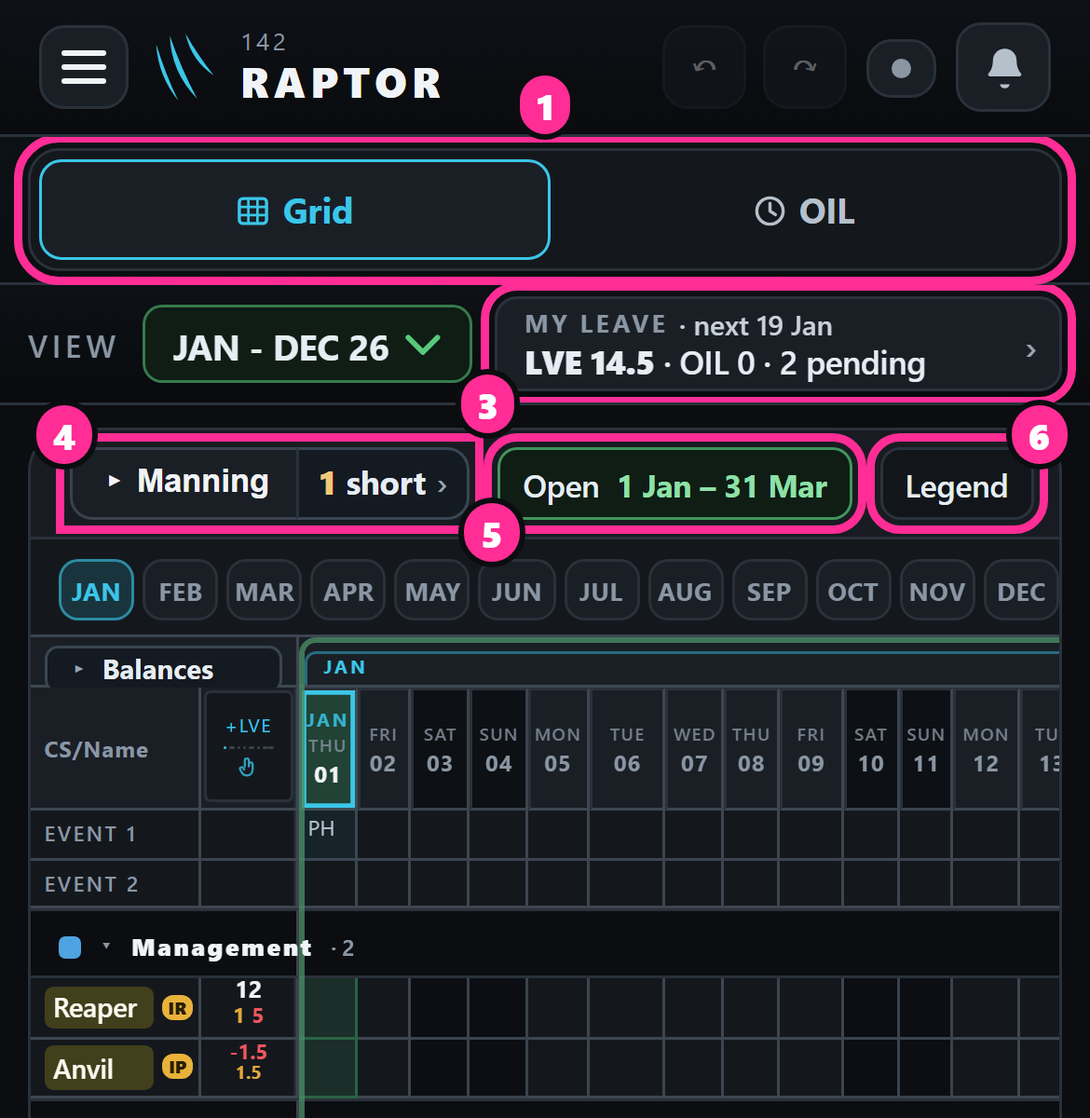
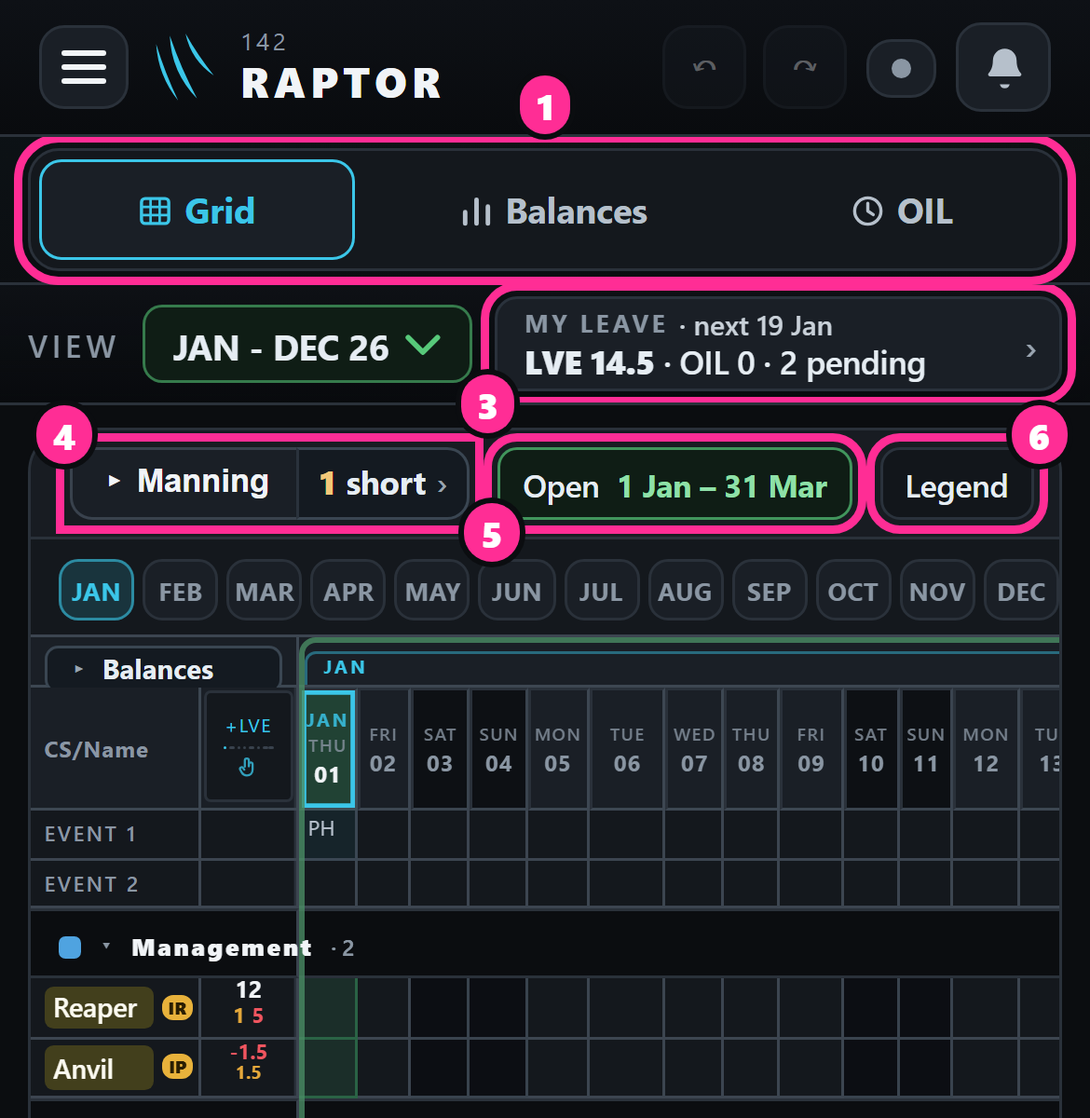
The main page redrawn with a member's tabs Grid · Balances · OIL (D1242); N5 put to him: two things called Balances, recommended the grid's fold goes; page version 46; skill note 675

Changed region(s): [[0.1231, 0.1233, 0.3385, 0.2467], [0.6769, 0.1542, 0.8923, 0.2158], [0.4308, 0.1542, 0.6154, 0.2158]]

diff --git a/raptor-port/docs/mock/lw-overhaul/full-page.html b/raptor-port/docs/mock/lw-overhaul/full-page.html
@@ -66,6 +66,7 @@ a{color:var(--accent)}
     <section class="box" id="open-list">
       <h2>Still open: one line each</h2>
       <ul class="plain">
+        <li><b>N5</b> · two things called "Balances" on the main page: the grid's Balances fold goes, now that the tab holds the same columns <span class="rec-pill">recommended</span> · <a href="#f-twobal">picture</a></li>
         <li><b>N1</b> · the navigation as redrawn below: tabs, one row fewer, Manning back at the left <span class="rec-pill">recommended</span> · <a href="#f-nav">pictures</a></li>
         <li><b>N2</b> · "Under 1 day" folded into the Manning button as "1 short ›" <span class="rec-pill">recommended</span> · <a href="#f-under">what it is</a></li>
         <li><b>N3</b> · the "+" for a new period moves into the period list, its last line <span class="rec-pill">recommended</span> · <a href="#f-nav">picture 7</a></li>
@@ -73,7 +74,18 @@ a{color:var(--accent)}
         <li><b>B2</b> lock switch on the balances page · <b>B3</b> OIL read only there · <b>B4</b> the Days taken view · <b>B5</b> take "No grade" out, all <span class="rec-pill">recommended</span> · <a href="#w-bal">pictures</a> · <a href="#f-nograde">B5 in words</a></li>
         <li><b>P</b> · approve the build plan · <a href="#w-plan">the plan</a></li>
       </ul>
-      <div class="answer">Reply with, e.g., <code>N1–N3 recommended · 3b 3c recommended · B all recommended · P approved</code>, or <code>all recommended</code>.</div>
+      <div class="answer">Reply with, e.g., <code>N1–N3, N5 recommended · 3b 3c recommended · B all recommended · P approved</code>, or <code>all recommended</code>.</div>
+    </section>
+
+    <section class="box q" id="f-twobal">
+      <h2><span class="qn">N5</span>Two things called "Balances" on the main page <span class="k n">new, from your N4</span></h2>
+      <p><b>Yes, the main page is updated:</b> a member's tabs are now Grid · Balances · OIL (picture, and N1 below). <b>Redrawing it showed one clash:</b> the page now has two things called "Balances": <b>A</b> the new tab (the whole squadron, laid out for a phone) and <b>B</b> the grid's Balances fold, which opens every person's balance columns beside the grid. They show the same figures, under one name, two ways in.</p>
+      <p><b>Recommended: the grid's Balances fold goes.</b> One button fewer (your point about too many buttons), and no two places with one name. The grid keeps each person's LVE figure beside his name, as now, so the grid still shows who has leave left while you bid or decide. Every other figure is one tap away on the tab. If you say yes, it changes D1185, which named the fold "Balances" and made it a clear button.</p>
+      <ul class="opts">
+        <li class="rec"><b>The fold goes; each name keeps its LVE figure</b><span class="rec-pill">recommended</span></li>
+        <li><b>Keep both</b>: the fold for a glance beside the grid, the tab for the full page.</li>
+      </ul>
+      <div class="shots"><figure><img src="full/r19-nav-member-twobal.png" alt="A member's phone: A the Balances tab, B the grid's Balances fold"><figcaption><span class="k n">A</span> the Balances tab · <span class="k n">B</span> the grid's Balances fold</figcaption></figure></div>
     </section>
 
     <section class="box q" id="f-membal">
@@ -90,7 +102,7 @@ a{color:var(--accent)}
         <li><b>Fewer buttons:</b> 11 before the grid, not 13. "Under 1 day" joins the Manning button (N2, below) and "+" for a new period joins the period list (N3, picture 7). Rearrange moves into ⚙, beside the groups it rearranges; OIL is a tab; the zoom buttons are already gone.</li>
       </ul>
       <div class="tablewrap"><table class="swap"><tr><th>The numbers on the pictures</th><th>What it is</th></tr>
-        <tr><td>1 · the tabs</td><td>Grid · Approvals 15 · Balances · OIL, drawn with the Inputs page's own tab row, so both pages look alike. A member sees Grid · OIL.</td></tr>
+        <tr><td>1 · the tabs</td><td>Grid · Approvals 15 · Balances · OIL, drawn with the Inputs page's own tab row, so both pages look alike. A member sees Grid · Balances · OIL (your answer to N4).</td></tr>
         <tr><td>2 · ⚙</td><td>Settings, at the first row's right end on a phone and a desktop alike. An admin's only.</td></tr>
         <tr><td>3 · My leave</td><td>On a phone it shares the View line, as a member's already does, so the admin's third line goes. On a desktop it stands in the first row.</td></tr>
         <tr><td>4 · Manning · 1 short</td><td>One button in two halves: the left folds the Manning rows, as today; the right counts the short days and jumps to the next one.</td></tr>
@@ -98,7 +110,7 @@ a{color:var(--accent)}
         <tr><td>6 · Legend</td><td>The bar's right end, on a phone and a desktop alike.</td></tr>
         <tr><td>7 · + New period</td><td>The last line of the period list, in place of the "+" button beside it. An admin's only.</td></tr>
       </table></div>
-      <div class="shots"><figure class="wide"><img src="full/r19-nav-admin-desk.png" alt="Round 19, desktop, admin: tabs, View, My leave and Settings on one row; Manning, the open dates and Legend on the grid's bar"><figcaption><span class="k n">New</span> · desktop: one row, then the grid's bar</figcaption></figure><figure><img src="full/r19-nav-admin-phone.png" alt="Round 19, admin's phone: three rows"><figcaption><span class="k n">New</span> · your phone, admin: three rows</figcaption></figure><figure><img src="full/r19-nav-member-phone.png" alt="Round 19, a member's phone"><figcaption><span class="k n">New</span> · a member's phone</figcaption></figure><figure><img src="full/r19-nav-picker-phone.png" alt="The period list open, + New period its last line"><figcaption><span class="k n">7</span> · the period list, "+ New period" last</figcaption></figure><figure class="wide"><img src="full/r17-nav-today-desk.png" alt="Today, desktop, every button numbered"><figcaption><span class="k t">Today</span> · desktop, to compare</figcaption></figure><figure><img src="full/r17-nav-today-phone.png" alt="Today, phone"><figcaption><span class="k t">Today</span> · phone, to compare</figcaption></figure></div>
+      <div class="shots"><figure class="wide"><img src="full/r19-nav-admin-desk.png" alt="Round 19, desktop, admin: tabs, View, My leave and Settings on one row; Manning, the open dates and Legend on the grid's bar"><figcaption><span class="k n">New</span> · desktop: one row, then the grid's bar</figcaption></figure><figure><img src="full/r19-nav-admin-phone.png" alt="Round 19, admin's phone: three rows"><figcaption><span class="k n">New</span> · your phone, admin: three rows</figcaption></figure><figure><img src="full/r19-nav-member-phone.png" alt="Round 19, a member's phone"><figcaption><span class="k n">New</span> · a member's phone: Grid · Balances · OIL</figcaption></figure><figure><img src="full/r19-nav-picker-phone.png" alt="The period list open, + New period its last line"><figcaption><span class="k n">7</span> · the period list, "+ New period" last</figcaption></figure><figure class="wide"><img src="full/r17-nav-today-desk.png" alt="Today, desktop, every button numbered"><figcaption><span class="k t">Today</span> · desktop, to compare</figcaption></figure><figure><img src="full/r17-nav-today-phone.png" alt="Today, phone"><figcaption><span class="k t">Today</span> · phone, to compare</figcaption></figure></div>
       <p class="note">If you say yes, this changes some earlier rulings: Approvals leaves the first line for a tab (D1196), so a request's dates take you to the Grid tab with a slim "Back to Approvals" bar on a desktop as on a phone (D1231 had Approvals docked beside the grid on a desktop). "+" / "+ New" leaves the first line for the period list, the admin's phone loses its third line and the second line goes (D678, D679). The under-manned chip becomes the right half of Manning (D1213 still decides what it counts). The grid's bar loses ⚙, Rearrange, OIL and zoom (its one-line bar of 5 Sep 26).</p>
       <details><summary class="lede">Round 17's drawing, to compare (A tabs, B one menu)</summary>
         <div class="shots" style="margin-top:10px"><figure class="wide"><img src="full/r17-nav-A-desk.png" alt="Round 17 A, desktop"><figcaption>Round 17 · A, desktop</figcaption></figure><figure><img src="full/r17-nav-A-phone.png" alt="Round 17 A, phone"><figcaption>Round 17 · A, phone</figcaption></figure><figure><img src="full/r17-nav-B-phone.png" alt="Round 17 B, phone"><figcaption>Round 17 · B, one menu</figcaption></figure></div>

diff --git a/HANDOFF.md b/HANDOFF.md
@@ -27,8 +27,8 @@ the later merge keeps both (D78).
 - **Unfinished:** none of the night's selection. Not built (D1207 — none qualified: every merge waits on a question or on his look; the two red-team faults in today's code go with their merges, the year-end bid being latent). Open residue → `[LW-OVERHAUL]` (his answers, his approval of the plan); `[LW-PHONE-PINCH-ZOOM]` gained fix A7a; `[NO-ASTRA-LIST]` carries the night's reads.
 - **Branch:** `claude/leave-war-overhaul`; no pull request (open one for the first build merge, M1, cut from `main` — never this design branch); released at the handoff of 22 Oct 26, about 11:45 (rounds 14–18 chat), then held by the round 19 chat (worktree `leave-war-overhaul-e11c0a`), which serves the mock-up preview on 4197 while it waits for his answers.
 - **Gates:** not run — no source change (documents and mock-up scripts only). `npm run docsize`: one size tripwire over, the Tracker's rulings file (518 bytes — main's, from its round 3; not this branch's to settle); the Leave War rulings tripwire raised to 60000 tonight with its reason. **Running when written:** none (the preview on 4197 stopped; the compaction guard back on); branch released here as the last step.
-- **His morning answers (22 Oct 26), recorded in the Leave War rulings:** D1208 no admin notification of new requests (P5 struck) · D1209 Q4 no member-typed OIL · D1210 a request carries remarks · D1211 Q6 no member bid before today · D1212 "Date" / "Duration" app-wide (lesson 31) · D1213 Q7 Available rows at amber / red count as under-manned · D1214 Q8 bidding open / closed to members' bells · D1215 SANS off unless put on · D1216 Q11 "taken back" line · D1217 "pending" not "waiting", War bal / App bal, days not requests (D1153 narrowed) · D1218 carried-forward leave: one year, then gone ([LEAVE-YEAR] joins) · D1219 N no admin notification option · D1220 Q2 one Lock balances switch · D1221 Q10 "+ SANS" (D882 narrowed). **This branch takes D1230–D1239; next free D1231.** **Also recorded:** D1221 + SANS · D1222 a picture shows only its question's area (lesson 32, How we work) · D1223 the URHO is an admin · D1224 leave uses carried-forward days first · D1225 5A delete own pending bid on a closed day · D1226 the till tick as on the Inputs page · D1227 Q9 (Manning opens with a bubble when a bid turns a row amber or red) · D1228 Q12 no zoom buttons. **Also recorded:** D1229 a leave grade per person, annual leave added by grade every 1 Jan (36 / 33 / 21 / 18 / 14) · D1230 one page for everyone's balances and grades. **Drawn (round 14, 22 Oct 26, this chat — his three asks):** (a) grid dots: none on the grid; Approvals' "New 3" shows what is new; a request's DATES (cyan, "›") are the way to the grid — the grid scrolls there and rings the cell with the just-added ring; desktop Approvals stays docked, phone Approvals drops to a slim bar ("Back ▴") — `full/r14-dots-*`, script `full-r14-dots.mjs`; (b) D1229 + D1230: the balances-and-grades page — grade picker (days on 1 Jan beside it), App bal · incl. carried fwd · pending · War bal, OIL read only, CCL…CL typed, a "Days taken" view, "No grade 2", "Grades…" window, "Lock for members" on the page, opened from Settings' Balances row (recommended) or a top-row button (B1's other way, phone too crowded) — red-teamed against his Gryphon pictures (table on the page) — `full/r14-bal-*`, `full-r14-bal.mjs`; (c) the LVE tile: Impeccable critique run as two independent reads (design review; detector + browser measures — `full-r14-snap.mjs` makes the standalone copy), five findings fixed: the sum one line left to right (App bal [17] − 2½ = 14½ War bal), "incl. [4] carried fwd · till 31 Dec" under App bal, "3 taken" back (D1201), zeros grey and the five typed kinds on row 2, box edges darker (1.85:1 → 3.4:1); locked: figures on their labels, member "Locked by admin", admin "Locked for members" with boxes — `full/r14-lve-*`, `full-r14-lve.mjs`. **His answers since (22 Oct 26, recorded):** D1231 "1 as recommended" (no grid dot; Approvals' New; a request's dates show it on the grid — answers D1199) · D1232 too many buttons, sub-pages hard to find → the navigation study, DRAWN round 17 (`full-r17-nav.mjs`, `full/r17-nav-*`): today 14 buttons in three rows; A (recommended) tabs Grid · Approvals 15 · Balances · OIL as the Inputs page has, the grid's controls one row, Rearrange into Settings — one row fewer on a desktop, same height on a phone; B one "⋯" menu · D1233 "+36" under "Auto + LVE on 1 Jan" (lesson 34) · D1234 grades editable, the squadron's own list (narrows D1229) · D1235 the 1 Jan roll-over, his example (37 with 4 cf, junior pilot → 33 cf, 66) · D1236 the phone shows every balance, names fixed, figures slide, pinch (round 16) · D1237 (how we work) what he should look at stands at the top of every mock-up page (design guide §8) · D1238 the balance tiles on one grid (round 17, `full-r17-lve.mjs`, `full/r17-lve-*`; lesson 35). Since: D1239 (the tiles align LEFT, LVE too; "3 taken" beside the LVE box — narrows D1238, lesson 36; drawn round 18, `full-r18-lve.mjs`, `full/r18-lve-*`) · D1240 (tabs design A redrawn with LESS HEIGHT at the top — fewer rows or buttons; Manning kept at the LEFT, not pushed right; "Under 1 day" explained and put to him, recommended folded into the Manning button "Manning · 1 short") — DRAWN round 19 (22 Oct 26, the chat after rounds 14–18; `full-r19-nav.mjs`, `full/r19-nav-*`, Impeccable shape + distill): row 1 the Inputs page's own tab row + ⚙ at its right end (desktop: View, picker and My leave join it); phone row 2 View, picker, My leave (the member's D1227 line, now an admin's too); the grid card's bar [▾ Manning | 1 short ›] · open dates · … · Legend; "+" into the picker's list; measured desktop −50px (one row), admin phone −27px (4 rows → 3), member phone unchanged; 11 buttons, not 13 · D1241 ("3 looks good": the round 18 tile approved; 3b, 3c still open). **His page, version 45 — "Still open: one line each" at the top (https://claude.ai/artifact/6xaVkA1QHg7UmevMBRFaT9):** answered since: D1242 (N4: members get the Balances tab; while unlocked a member edits his own row there — never OIL or his grade; locked or another's row, read only; narrows D1230, widens D1203; drawn `full-r19b-membal.mjs`, `full/r19b-membal-*`; in the build plan's M5). Still open: N1 navigation as redrawn · N2 "Under 1 day" folded into Manning · N3 "+" into the period list (with N1, Approvals becomes a tab, which changes D1231's desktop docking; N1–N3 narrow D678, D679, D1196, the 5 Sep 26 grid bar) · 3b halves as ½ everywhere · 3c other leave pending one figure · B2 lock on the balances page · B3 OIL read only · B4 Days taken view · B5 take "No grade" out · P the build plan. **Owed:** one fresh reader of D1231–D1241's short lines against their full rows and of lessons 33–36 and the §8 line (D138, D941), with D1208–D1220 and lesson 31. Next free ruling **D1243** (this branch holds to D1249; checked 22 Oct 26: no branch above D1236). The mock-up preview runs from `.claude/launch.json` "raptor-lwmock" (port 4197); the sample squadron is `<scratch>/out/state.json`, copied from the fervent-chatelet scratchpad (see `full-lib.mjs` SP). 
-- **Pick up here:** take his answers (N1–N3, 3b, 3c, B2–B5, P — round 19 is drawn and on his page, version 45), recording from **D1242**, fixing what each leaves behind (D201; owed: one fresh reader of D1242's short line and the restated D1230, D1203 lines too; N=A narrows D1231 and the top-row rulings D678, D679, D1196); the owed fresh read; update the build plan; on his approval start **M1 — open dates** on a new branch from `main`.
+- **His morning answers (22 Oct 26), recorded in the Leave War rulings:** D1208 no admin notification of new requests (P5 struck) · D1209 Q4 no member-typed OIL · D1210 a request carries remarks · D1211 Q6 no member bid before today · D1212 "Date" / "Duration" app-wide (lesson 31) · D1213 Q7 Available rows at amber / red count as under-manned · D1214 Q8 bidding open / closed to members' bells · D1215 SANS off unless put on · D1216 Q11 "taken back" line · D1217 "pending" not "waiting", War bal / App bal, days not requests (D1153 narrowed) · D1218 carried-forward leave: one year, then gone ([LEAVE-YEAR] joins) · D1219 N no admin notification option · D1220 Q2 one Lock balances switch · D1221 Q10 "+ SANS" (D882 narrowed). **This branch takes D1230–D1239; next free D1231.** **Also recorded:** D1221 + SANS · D1222 a picture shows only its question's area (lesson 32, How we work) · D1223 the URHO is an admin · D1224 leave uses carried-forward days first · D1225 5A delete own pending bid on a closed day · D1226 the till tick as on the Inputs page · D1227 Q9 (Manning opens with a bubble when a bid turns a row amber or red) · D1228 Q12 no zoom buttons. **Also recorded:** D1229 a leave grade per person, annual leave added by grade every 1 Jan (36 / 33 / 21 / 18 / 14) · D1230 one page for everyone's balances and grades. **Drawn (round 14, 22 Oct 26, this chat — his three asks):** (a) grid dots: none on the grid; Approvals' "New 3" shows what is new; a request's DATES (cyan, "›") are the way to the grid — the grid scrolls there and rings the cell with the just-added ring; desktop Approvals stays docked, phone Approvals drops to a slim bar ("Back ▴") — `full/r14-dots-*`, script `full-r14-dots.mjs`; (b) D1229 + D1230: the balances-and-grades page — grade picker (days on 1 Jan beside it), App bal · incl. carried fwd · pending · War bal, OIL read only, CCL…CL typed, a "Days taken" view, "No grade 2", "Grades…" window, "Lock for members" on the page, opened from Settings' Balances row (recommended) or a top-row button (B1's other way, phone too crowded) — red-teamed against his Gryphon pictures (table on the page) — `full/r14-bal-*`, `full-r14-bal.mjs`; (c) the LVE tile: Impeccable critique run as two independent reads (design review; detector + browser measures — `full-r14-snap.mjs` makes the standalone copy), five findings fixed: the sum one line left to right (App bal [17] − 2½ = 14½ War bal), "incl. [4] carried fwd · till 31 Dec" under App bal, "3 taken" back (D1201), zeros grey and the five typed kinds on row 2, box edges darker (1.85:1 → 3.4:1); locked: figures on their labels, member "Locked by admin", admin "Locked for members" with boxes — `full/r14-lve-*`, `full-r14-lve.mjs`. **His answers since (22 Oct 26, recorded):** D1231 "1 as recommended" (no grid dot; Approvals' New; a request's dates show it on the grid — answers D1199) · D1232 too many buttons, sub-pages hard to find → the navigation study, DRAWN round 17 (`full-r17-nav.mjs`, `full/r17-nav-*`): today 14 buttons in three rows; A (recommended) tabs Grid · Approvals 15 · Balances · OIL as the Inputs page has, the grid's controls one row, Rearrange into Settings — one row fewer on a desktop, same height on a phone; B one "⋯" menu · D1233 "+36" under "Auto + LVE on 1 Jan" (lesson 34) · D1234 grades editable, the squadron's own list (narrows D1229) · D1235 the 1 Jan roll-over, his example (37 with 4 cf, junior pilot → 33 cf, 66) · D1236 the phone shows every balance, names fixed, figures slide, pinch (round 16) · D1237 (how we work) what he should look at stands at the top of every mock-up page (design guide §8) · D1238 the balance tiles on one grid (round 17, `full-r17-lve.mjs`, `full/r17-lve-*`; lesson 35). Since: D1239 (the tiles align LEFT, LVE too; "3 taken" beside the LVE box — narrows D1238, lesson 36; drawn round 18, `full-r18-lve.mjs`, `full/r18-lve-*`) · D1240 (tabs design A redrawn with LESS HEIGHT at the top — fewer rows or buttons; Manning kept at the LEFT, not pushed right; "Under 1 day" explained and put to him, recommended folded into the Manning button "Manning · 1 short") — DRAWN round 19 (22 Oct 26, the chat after rounds 14–18; `full-r19-nav.mjs`, `full/r19-nav-*`, Impeccable shape + distill): row 1 the Inputs page's own tab row + ⚙ at its right end (desktop: View, picker and My leave join it); phone row 2 View, picker, My leave (the member's D1227 line, now an admin's too); the grid card's bar [▾ Manning | 1 short ›] · open dates · … · Legend; "+" into the picker's list; measured desktop −50px (one row), admin phone −27px (4 rows → 3), member phone unchanged; 11 buttons, not 13 · D1241 ("3 looks good": the round 18 tile approved; 3b, 3c still open). **His page, version 46 — "Still open: one line each" at the top (https://claude.ai/artifact/6xaVkA1QHg7UmevMBRFaT9):** answered since: D1242 (N4: members get the Balances tab; while unlocked a member edits his own row there — never OIL or his grade; locked or another's row, read only; narrows D1230, widens D1203; drawn `full-r19b-membal.mjs`, `full/r19b-membal-*`; in the build plan's M5; the main page redrawn with a member's tabs Grid · Balances · OIL). Still open: N5 (two things called Balances — recommended the grid's Balances fold goes, each name keeps its LVE figure; narrows D1185; `full/r19-nav-member-twobal.png`) · N1 navigation as redrawn · N2 "Under 1 day" folded into Manning · N3 "+" into the period list (with N1, Approvals becomes a tab, which changes D1231's desktop docking; N1–N3 narrow D678, D679, D1196, the 5 Sep 26 grid bar) · 3b halves as ½ everywhere · 3c other leave pending one figure · B2 lock on the balances page · B3 OIL read only · B4 Days taken view · B5 take "No grade" out · P the build plan. **Owed:** one fresh reader of D1231–D1241's short lines against their full rows and of lessons 33–36 and the §8 line (D138, D941), with D1208–D1220 and lesson 31. Next free ruling **D1243** (this branch holds to D1249; checked 22 Oct 26: no branch above D1236). The mock-up preview runs from `.claude/launch.json` "raptor-lwmock" (port 4197); the sample squadron is `<scratch>/out/state.json`, copied from the fervent-chatelet scratchpad (see `full-lib.mjs` SP). 
+- **Pick up here:** take his answers (N1–N3, N5, 3b, 3c, B2–B5, P — round 19 is drawn and on his page, version 45), recording from **D1242**, fixing what each leaves behind (D201; owed: one fresh reader of D1242's short line and the restated D1230, D1203 lines too; N=A narrows D1231 and the top-row rulings D678, D679, D1196); the owed fresh read; update the build plan; on his approval start **M1 — open dates** on a new branch from `main`.
 - **Opening line:** Switch this chat to the branch claude/leave-war-overhaul: git fetch origin, git switch claude/leave-war-overhaul, git branch -u origin/claude/leave-war-overhaul, git pull --ff-only. If the switch is refused because another checkout holds the branch, release it there only if that folder has no uncommitted changes and is on the same commit as origin/claude/leave-war-overhaul (then git -C <that folder> switch --detach and switch again); otherwise stop and tell me which folder holds it. Check Remote Control is on for this chat and switch it on if not. Then read HANDOFF.md, the claude/leave-war-overhaul block under ## Now, and the design note's section 10.3. I will give you my answers to the twelve questions and my word on the build plan; record them as rulings from D1208, then start M1 (open dates) on a new branch from main if I approve the plan.
 <!-- /now -->
 <!-- now:claude/sharp-spence-adf59e -->

diff --git a/.claude/skill-observations/log.md b/.claude/skill-observations/log.md
@@ -1807,3 +1807,18 @@ different feature that merely pass through it.
 **Suggested improvement:** In the mock-ups guide, for any ask about size or space ("less height", "fits on one line", "more names on the first screen"), the drawing script measures the quantity asked about on the real build before and after its own changes, and also each row's overflow, and the page states the measured figures per device and role, including any device where nothing was saved.
 
 **Principle:** When the request is a quantity, measure the quantity in the same run that draws the change, on every device and role it touches; a picture that looks better is not evidence of the quantity, and a saving on one device can hide none on another.
+
+### Observation 675: A ruling answered on one picture left another picture of the same screen stale, and he caught it
+
+**Status:** OPEN
+**Date:** 2026-10-22
+**Session context:** Leave War navigation, round 19: his D1242 gave members the Balances tab; the drawing of the member's main page (tabs Grid · OIL) was not redrawn in the same turn.
+**Skill:** brainstorming (mockups-on-the-real-app.md)
+**Type:** open-source
+**Phase/Area:** updating a mock-up page after an answer
+
+**Issue:** The answer was recorded and its own question's pictures redrawn, but the main-page picture a few sections up still showed the member's tabs without Balances. He asked "are u updating a better design for the main page? Like members can have a balance tab?" Redrawing it then exposed a further clash (two things named Balances on one screen), which became a new question.
+
+**Suggested improvement:** After recording a ruling that changes a design, list every picture on the page that draws the changed thing (grep the drawing scripts for the element or the role it touches) and redraw each in the same turn; then look at the redrawn screens whole for clashes the change created.
+
+**Principle:** An answer changes every picture of the thing it governs, not only the picture it was given on; redrawing them all in the same pass is also how the change's knock-on effects are found.
